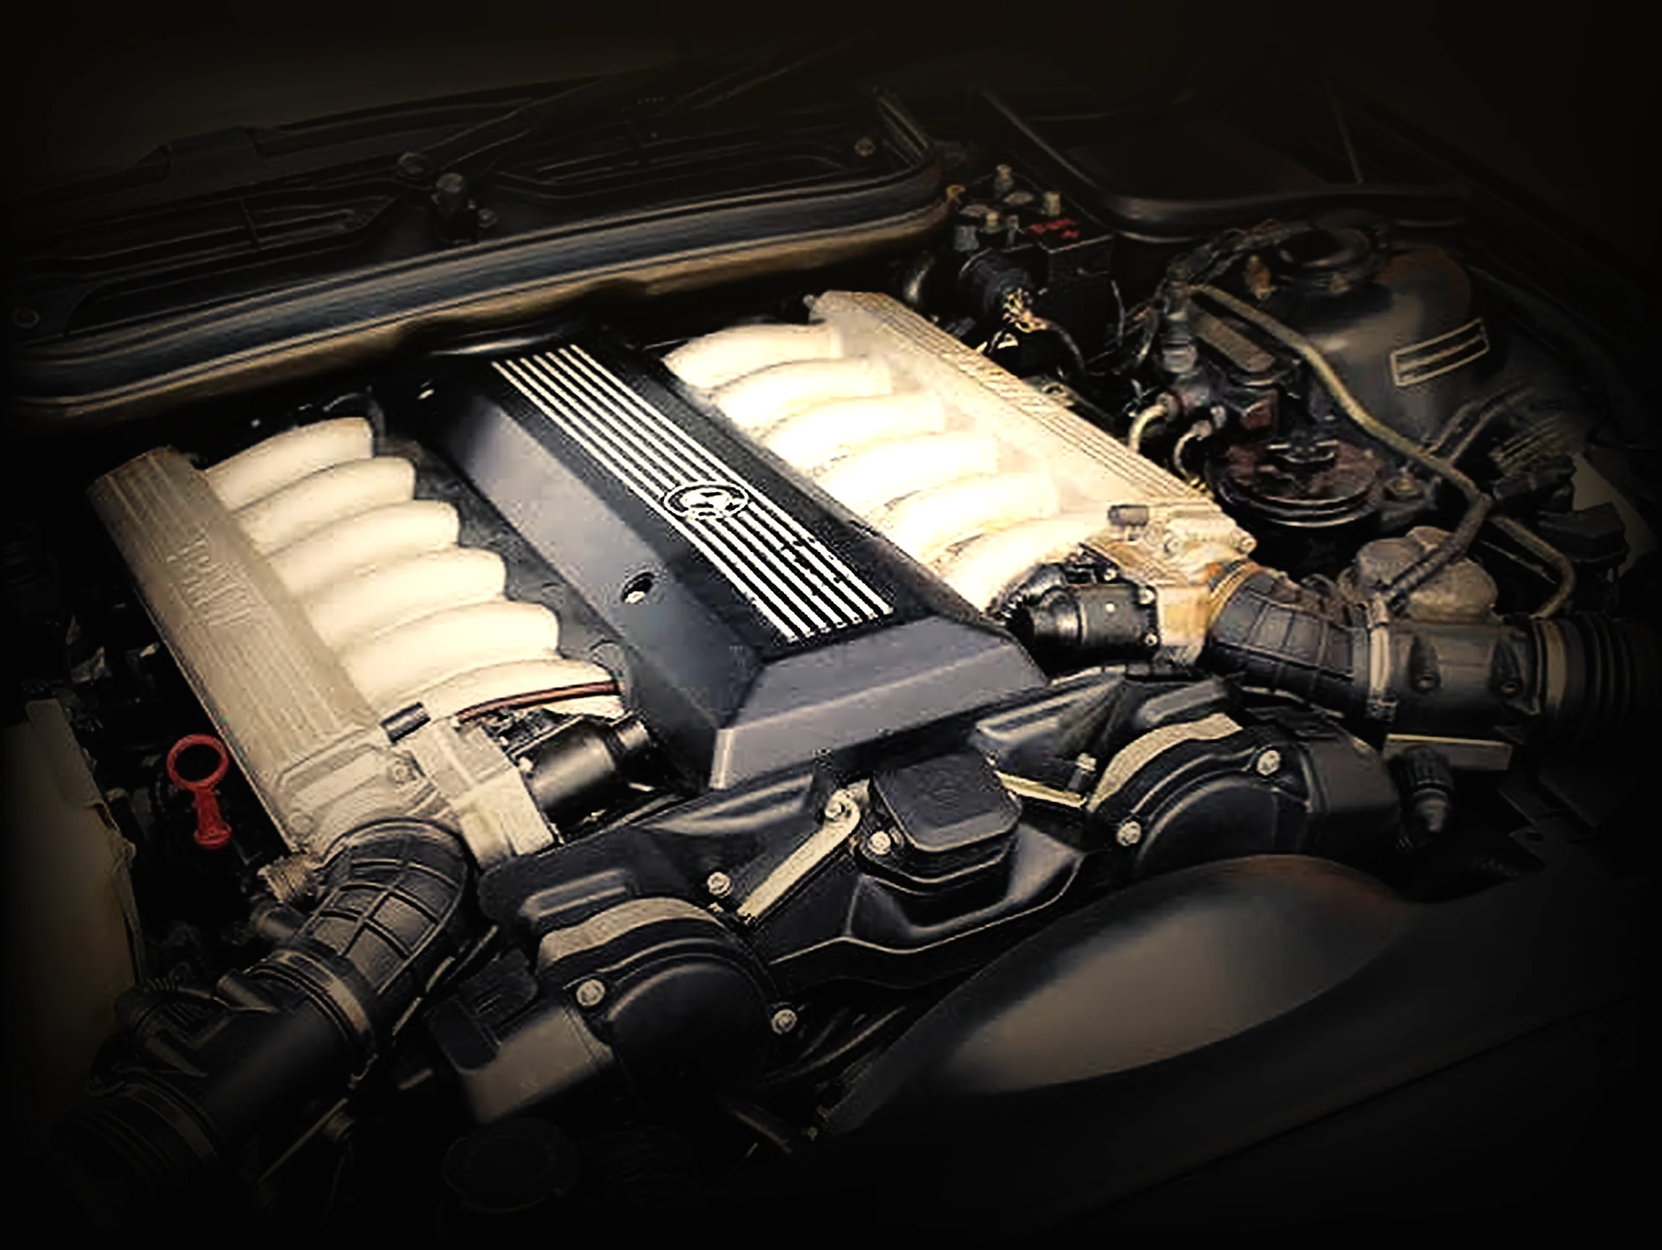
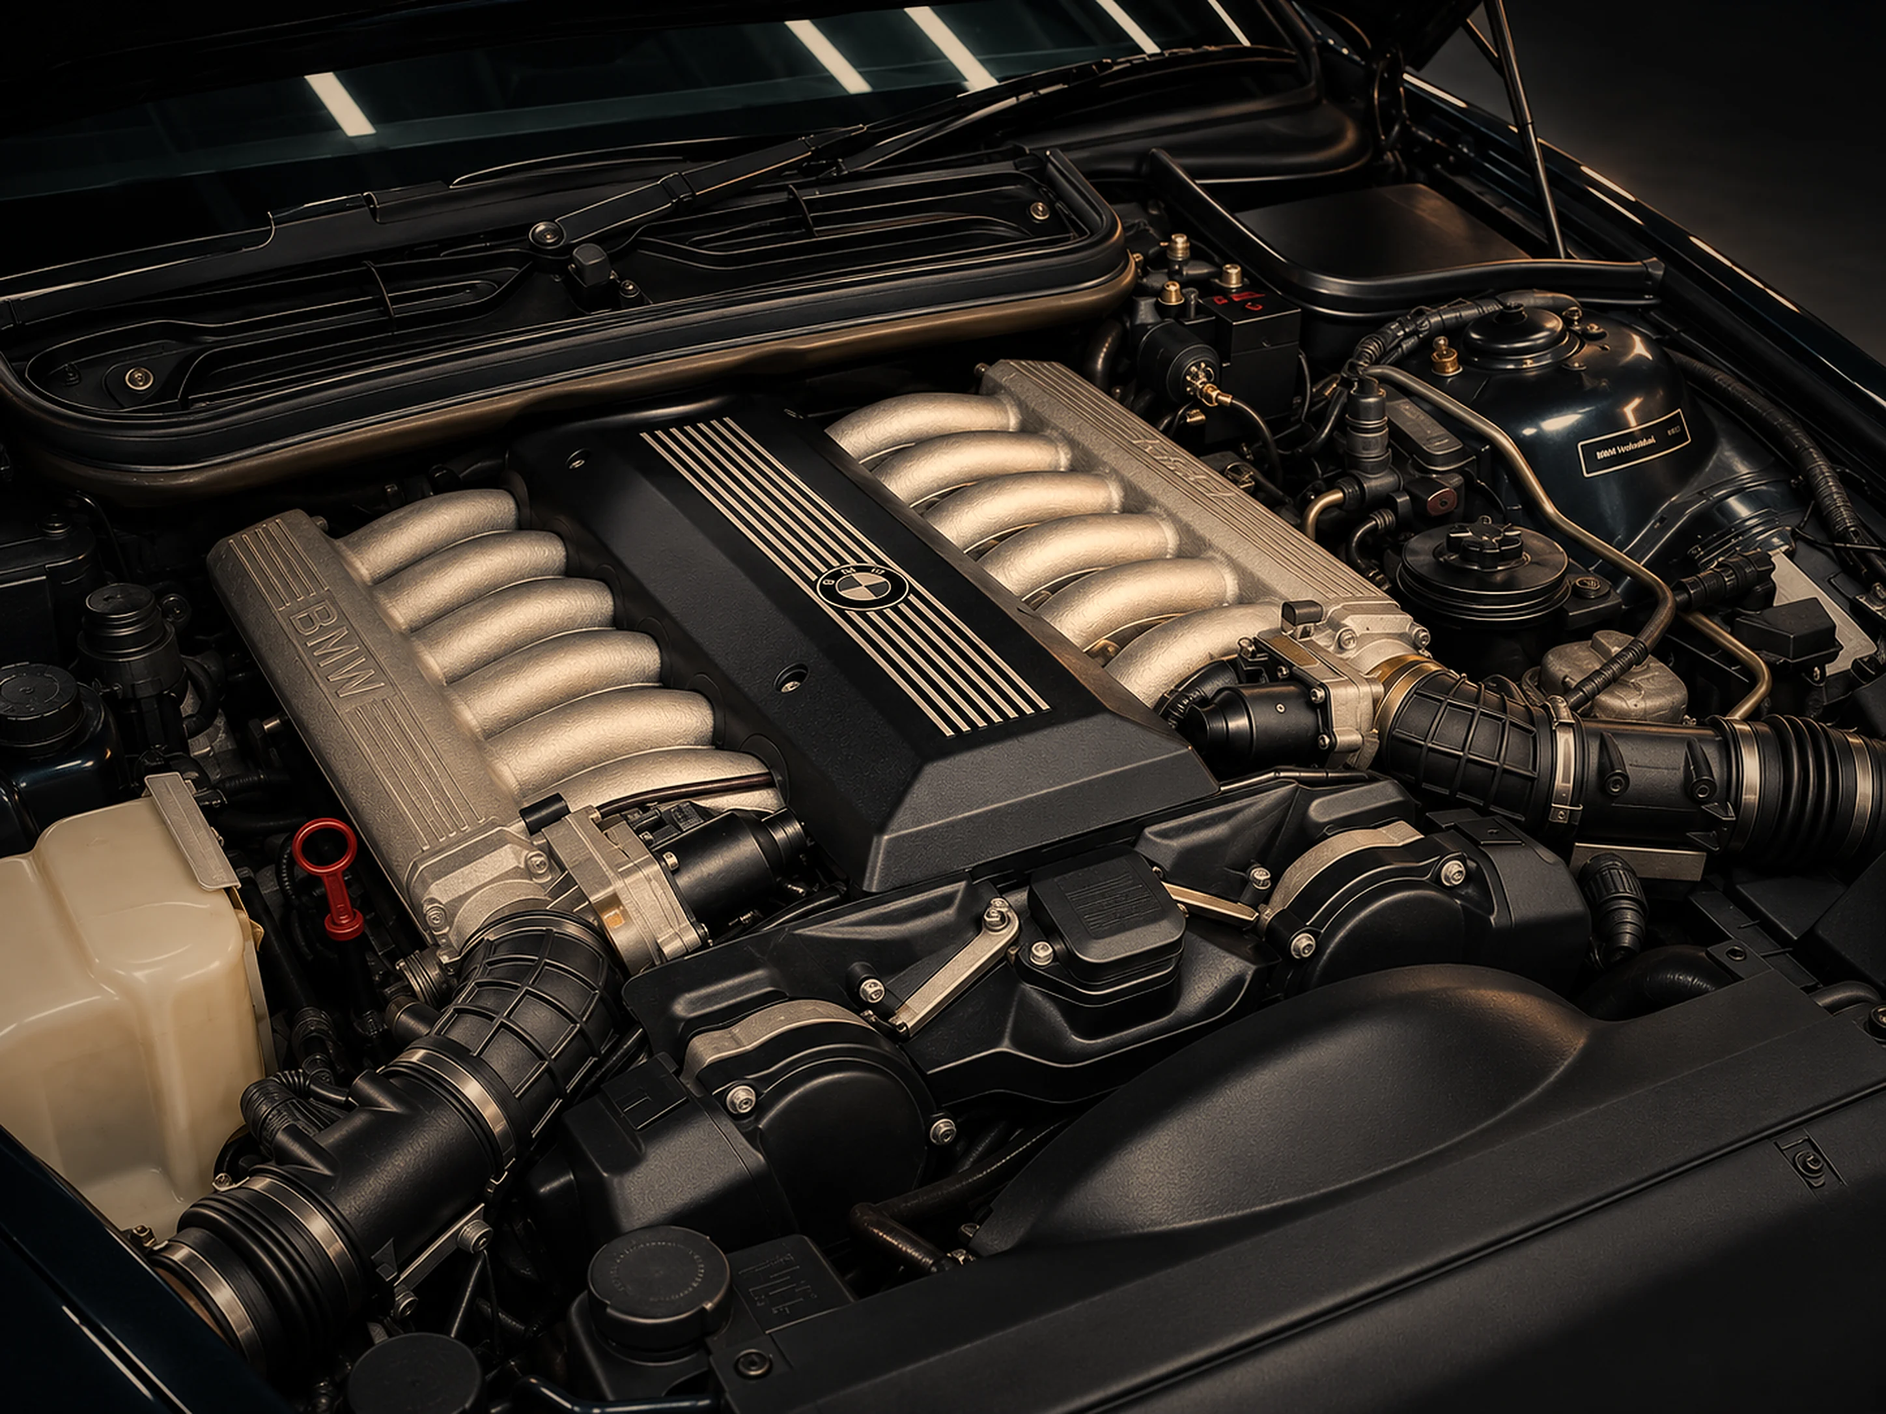
New engine still, slow hood opening, fitted plate and dash displays, smoother transitions
- Engine bay: the new studio engine photo, lightly warmed to the studio key light
- Hood opens over a much longer scroll, then the camera glides down into the bay
- Plate is mapped into the plate recess in perspective (four measured corners),
  redrawn as a black California plate with screw heads
- Odometer and radio displays are mapped onto their glass in perspective; the
  odometer sits behind the steering-wheel spoke
- Displays rest dim like real backlit glass and light up with a glow on hover
  (on touch screens they light when the camera reaches them)
- Transitions run longer, fades use a softer curve, and scrolling glides more

Claude-Session: https://claude.ai/code/session_01CZW1rVK2D3B6yrmhRnN8LJ

diff --git a/assets/js/site.js b/assets/js/site.js
@@ -21,7 +21,7 @@
   function ease(t) { return t < .5 ? 4 * t * t * t : 1 - Math.pow(-2 * t + 2, 3) / 2; }
   // Soft ease: half linear, half ease-in-out. Shots never fully stop at a seam, so the camera keeps flowing.
   function soft(t) { return .45 * t + .55 * ease(t); }
-  function sm(t) { t = clamp(t, 0, 1); return t * t * (3 - 2 * t); }
+  function sm(t) { t = clamp(t, 0, 1); return t * t * t * (t * (t * 6 - 15) + 10); }
   function esc(s) { return String(s == null ? '' : s).replace(/[&<>"']/g, function (c) { return { '&': '&amp;', '<': '&lt;', '>': '&gt;', '"': '&quot;', "'": '&#39;' }[c]; }); }
   function slug(s) { return String(s || '').toLowerCase().replace(/[^a-z0-9]+/g, '-').replace(/^-|-$/g, ''); }
   function fmt(n) { return Number(n).toLocaleString('en-US'); }
@@ -107,7 +107,7 @@
     backseat: { file: 'backseat', w: 1672, h: 941, focus: [836, 470] },
     bonnet: { file: 'bonnet', w: 1448, h: 1086, focus: [780, 470] },
     headon: { file: 'headon', w: 1448, h: 1086, focus: [724, 470] },
-    engine: { file: 'engine', w: 1276, h: 960, focus: [600, 430] },
+    engine: { file: 'engine', w: 1448, h: 1086, focus: [720, 560] },
     steer: { file: 'corner', w: 1448, h: 1086, focus: [930, 640] },
     passenger: { file: 'passenger', w: 1536, h: 1024, focus: [1010, 640] },
     glass: { file: 'rear', w: 1672, h: 941, focus: [560, 420] },
@@ -120,10 +120,14 @@
     headon: '<div class="hood" style="left:60px;top:240px;width:1330px;height:238px">' +
       '<div class="hood-bay"><img src="assets/photos/engine.webp" alt="" decoding="async"></div>' +
       '<div class="hood-flap"><i class="hood-top"></i><i class="hood-under"></i></div></div>',
-    rear: '<div class="ov ov-plate" data-detail="plate" style="left:1233px;top:410px;width:154px;height:66px"><span>31 CARTIO</span><i>E31 SPECIALIST</i></div>',
-    cluster: '<a class="ov ov-odo" data-bind="tel" href="tel:+18183955765" aria-label="Call us" style="left:982px;top:413px;width:66px;height:29px" id="odo-a"></a>' +
-      '<a class="ov ov-odo" data-bind="tel" href="tel:+18183955765" aria-label="Call us" style="left:1059px;top:414px;width:61px;height:29px" id="odo-b"></a>',
-    console: '<a class="ov ov-lcd" id="obc" href="https://www.instagram.com/31bycartio/" target="_blank" rel="noopener" aria-label="31 by Cartio on Instagram" style="left:189px;top:514px;width:442px;height:51px;transform:rotate(-1deg)"><span id="obc-text">31 BY CARTIO</span><i>ST</i></a>',
+    // data-quad = the four corners (top-left, top-right, bottom-right, bottom-left) measured on the photo;
+    // the element is drawn flat at its own size and mapped onto those corners in perspective.
+    rear: '<div class="ov ov-plate" data-quad="1233,412 1383,414 1395,475.5 1240.5,481" style="width:240px;height:120px"><b>California</b><span>31 CARTIO</span><i>E31 SPECIALIST</i>' +
+      '<u style="left:19%;top:8%"></u><u style="right:19%;top:8%"></u><u style="left:19%;bottom:8%"></u><u style="right:19%;bottom:8%"></u></div>',
+    cluster: '<a class="ov ov-odo-link" data-bind="tel" data-lit="odo" href="tel:+18183955765" aria-label="Call us" style="left:972px;top:402px;width:160px;height:52px">' +
+      '<span class="odo-w" style="left:8px;top:10px;width:70px;height:29px;-webkit-mask-image:url(assets/img/mask-odo.png);mask-image:url(assets/img/mask-odo.png)"><span class="ov-odo" id="odo-a" data-quad="3.1,3 67.4,4.7 66.9,25.6 3.6,23.7" style="width:128px;height:42px"></span></span>' +
+      '<span class="odo-w" style="left:87px;top:14px;width:62px;height:28px"><span class="ov-odo" id="odo-b" data-quad="2.7,2.6 59.6,5.4 59.3,26.1 2.1,22.6" style="width:114px;height:40px"></span></span></a>',
+    console: '<a class="ov ov-lcd" id="obc" data-lit="radio" data-quad="190,520 619,512 618,553.5 190,565" href="https://www.instagram.com/31bycartio/" target="_blank" rel="noopener" aria-label="31 by Cartio on Instagram" style="width:430px;height:48px"><span id="obc-text">31 BY CARTIO</span><i>ST</i></a>',
     backseat: '<div class="ov ov-mirror" style="left:726px;top:127px;width:226px;height:42px"><span>31 BY CARTIO</span></div>' +
       '<div class="ov ov-emboss" style="left:130px;top:752px;width:172px;height:74px"><i class="e-sh"></i><i class="e-hi"></i><i class="e-base"></i></div>'
   };
@@ -166,47 +170,47 @@
     hold('heroOff', CAM.hero, 55, { cap: 'hero', ch: 'hero' }),
     x({ s: 'heroOff', c0: CAM.hero, c1: CAM.hero, o: [.62, .8] }, { s: 'heroOn', c0: CAM.hero, c1: CAM.hero, o: [.32, .58] }, 45, { flash: .4 }),
     move('heroOn', CAM.hero, CAM.podNear, 40),
-    xin('heroOn', CAM.podNear, CAM.podP, 'lamp', REST, 55),
+    xin('heroOn', CAM.podNear, CAM.podP, 'lamp', REST, 80),
     move('lamp', REST, DRIFT, 45, { cap: 'lamp', lin: 1 }),
-    track('lamp', 'corner', 60),
+    track('lamp', 'corner', 90),
     move('corner', REST, DRIFT, 45, { cap: 'corner', lin: 1 }),
-    track('corner', 'rearwheel', 60),
-    xout('rearwheel', REST, 'rear', CAM.rwP, REST, 65),
+    track('corner', 'rearwheel', 90),
+    xout('rearwheel', REST, 'rear', CAM.rwP, REST, 90),
     move('rear', REST, R({ k: .95 }), 55, { cap: 'step', ch: 'inside', detail: 'plate', lin: 1 }),
-    xin('rear', R({ k: .95 }), CAM.winP, 'cabin', REST, 65),
+    xin('rear', R({ k: .95 }), CAM.winP, 'cabin', REST, 90),
     move('cabin', REST, R({ k: .95 }), 40, { cap: 'look', lin: 1 }),
-    xin('cabin', R({ k: .95 }), CAM.clP, 'cluster', REST, 55),
+    xin('cabin', R({ k: .95 }), CAM.clP, 'cluster', REST, 80),
     move('cluster', REST, CAM.odo, 35, { cap: 'odo' }),
     hold('cluster', CAM.odo, 55, { cap: 'odo', ch: 'gauges', detail: 'odo' }),
-    xout('cluster', CAM.odo, 'driver', CAM.odoP, REST, 65),
+    xout('cluster', CAM.odo, 'driver', CAM.odoP, REST, 90),
     move('driver', REST, CAM.drvConsole, 35),
-    xin('driver', CAM.drvConsole, CAM.radioP, 'console', CAM.radio, 55, { cap: 'radio' }),
+    xin('driver', CAM.drvConsole, CAM.radioP, 'console', CAM.radio, 80, { cap: 'radio' }),
     hold('console', CAM.radio, 60, { cap: 'radio', ch: 'radio', detail: 'radio' }),
-    xout('console', CAM.radio, 'backseat', CAM.bsRadioP, REST, 65),
+    xout('console', CAM.radio, 'backseat', CAM.bsRadioP, REST, 90),
     move('backseat', REST, CAM.mirror, 35, { cap: 'mirror' }),
     hold('backseat', CAM.mirror, 40, { cap: 'mirror', detail: 'mirror' }),
     move('backseat', CAM.mirror, CAM.leather, 40, { cap: 'leather' }),
     hold('backseat', CAM.leather, 50, { cap: 'leather', ch: 'leather', detail: 'leather' }),
-    x({ s: 'backseat', c0: CAM.leather, c1: CAM.leatherIn, o: [.3, .8], blur: 1 }, { s: 'bonnet', c0: R({ k: .9, dx: -.05 }), c1: CAM.kb0, box: 'full', box1: 'split', o: [.06, .52], blur: 1 }, 60),
+    x({ s: 'backseat', c0: CAM.leather, c1: CAM.leatherIn, o: [.3, .8], blur: 1 }, { s: 'bonnet', c0: R({ k: .9, dx: -.05 }), c1: CAM.kb0, box: 'full', box1: 'split', o: [.06, .52], blur: 1 }, 85),
     move('bonnet', CAM.kb0, CAM.kb1, 85, { box: 'split', cap: 'paint', ch: 'paint' }),
-    wipe('bonnet', 'headon', 45),
+    wipe('bonnet', 'headon', 70),
     move('headon', CAM.kb0, CAM.kb1, 45, { box: 'split', cap: 'engines', ch: 'engines' }),
-    move('headon', CAM.kb1, K(724, 500, 1000), 50, { box: 'split', cap: 'engines', hood: 1 }),
-    x({ s: 'headon', c0: K(724, 500, 1000), c1: K(724, 370, 430), box: 'split', o: [.55, .92], blur: 1 }, { s: 'engine', c0: R({ k: 1 }), c1: R({ k: .95 }), box: 'split', o: [.42, .86], blur: 1 }, 55, { cap: 'engines' }),
-    move('engine', R({ k: .95 }), CAM.kb1, 55, { box: 'split', cap: 'engines' }),
-    wipe('engine', 'steer', 45),
+    move('headon', CAM.kb1, K(724, 500, 1000), 130, { box: 'split', cap: 'engines', hood: 1 }),
+    x({ s: 'headon', c0: K(724, 500, 1000), c1: K(724, 380, 470), box: 'split', o: [.5, .95], blur: 1 }, { s: 'engine', c0: R({ k: 1 }), c1: R({ k: .94 }), box: 'split', o: [.36, .88], blur: 1 }, 90, { cap: 'engines' }),
+    move('engine', R({ k: .94 }), CAM.kb1, 60, { box: 'split', cap: 'engines' }),
+    wipe('engine', 'steer', 70),
     move('steer', CAM.kb0, CAM.kb1, 85, { box: 'split', cap: 'steering', ch: 'steering' }),
-    wipe('steer', 'passenger', 45),
+    wipe('steer', 'passenger', 70),
     move('passenger', CAM.kb0, CAM.kb1, 85, { box: 'split', cap: 'interior', ch: 'interior' }),
-    wipe('passenger', 'glass', 45),
+    wipe('passenger', 'glass', 70),
     move('glass', CAM.kb0, CAM.kb1, 85, { box: 'split', cap: 'sunroof', ch: 'sunroof' }),
-    wipe('glass', 'dash', 45),
+    wipe('glass', 'dash', 70),
     move('dash', CAM.kb0, CAM.kb1, 85, { box: 'split', cap: 'wiring', ch: 'wiring' }),
-    x({ s: 'dash', c0: CAM.kb1, c1: CAM.kb1, box: 'split', box1: 'full', o: [.55, .95] }, { s: 'stock', c0: R({ k: 1.12 }), c1: CAM.stock, o: [.45, .9] }, 60),
+    x({ s: 'dash', c0: CAM.kb1, c1: CAM.kb1, box: 'split', box1: 'full', o: [.55, .95] }, { s: 'stock', c0: R({ k: 1.12 }), c1: CAM.stock, o: [.4, .92], blur: 1 }, 85),
     hold('stock', CAM.stock, 150, { cap: 'stock', ch: 'stock', lineup: true, dim: .6 }),
-    x({ s: 'stock', c0: CAM.stock, c1: R({ k: .9 }), o: [.25, .8], blur: 1 }, { s: 'story', c0: R({ k: .9, dx: .05 }), c1: CAM.kb0, box: 'full', box1: 'story', o: [.05, .5], blur: 1 }, 60),
+    x({ s: 'stock', c0: CAM.stock, c1: R({ k: .9 }), o: [.25, .8], blur: 1 }, { s: 'story', c0: R({ k: .9, dx: .05 }), c1: CAM.kb0, box: 'full', box1: 'story', o: [.05, .5], blur: 1 }, 85),
     move('story', CAM.kb0, CAM.kb1, 75, { box: 'story', cap: 'story', ch: 'story' }),
-    x({ s: 'story', c0: CAM.kb1, c1: CAM.final0, box: 'story', box1: 'full', o: [.6, .9] }, { s: 'finale', c0: CAM.final0, c1: CAM.final0, o: [.5, .8] }, 60, { flash: .55 }),
+    x({ s: 'story', c0: CAM.kb1, c1: CAM.final0, box: 'story', box1: 'full', o: [.6, .9] }, { s: 'finale', c0: CAM.final0, c1: CAM.final0, o: [.45, .85], blur: 1 }, 85, { flash: .55 }),
     move('finale', CAM.final0, CAM.final1, 80, { cap: 'contact', ch: 'contact', end: true, dim: .45 })
   ];
   var CHAPTERS = [
@@ -252,6 +256,29 @@
   function drain() { var it = loadQueue.shift(); if (!it) return; it[0].onload = it[0].onerror = function () { setTimeout(drain, 0); }; it[0].src = it[1]; }
   window.addEventListener('load', function () { drain(); drain(); drain(); });
   setTimeout(function () { drain(); drain(); }, 2500);
+
+  // Projective transform that maps a w x h box onto four measured corners (CSS matrix3d).
+  function homography(w, h, q) {
+    var src = [[0, 0], [w, 0], [w, h], [0, h]], A = [], i, j, k;
+    for (i = 0; i < 4; i++) {
+      var x0 = src[i][0], y0 = src[i][1], X = q[i][0], Y = q[i][1];
+      A.push([x0, y0, 1, 0, 0, 0, -x0 * X, -y0 * X, X]);
+      A.push([0, 0, 0, x0, y0, 1, -x0 * Y, -y0 * Y, Y]);
+    }
+    for (i = 0; i < 8; i++) {
+      var p = i; for (j = i + 1; j < 8; j++) if (Math.abs(A[j][i]) > Math.abs(A[p][i])) p = j;
+      var tmp = A[i]; A[i] = A[p]; A[p] = tmp;
+      for (j = i + 1; j < 8; j++) { var f = A[j][i] / A[i][i]; for (k = i; k < 9; k++) A[j][k] -= f * A[i][k]; }
+    }
+    var hh = new Array(8);
+    for (i = 7; i >= 0; i--) { var sum = A[i][8]; for (j = i + 1; j < 8; j++) sum -= A[i][j] * hh[j]; hh[i] = sum / A[i][i]; }
+    return [hh[0], hh[3], 0, hh[6], hh[1], hh[4], 0, hh[7], 0, 0, 1, 0, hh[2], hh[5], 0, 1];
+  }
+  $$('[data-quad]').forEach(function (el) {
+    var q = el.getAttribute('data-quad').split(' ').map(function (p) { return p.split(',').map(Number); });
+    el.style.left = '0px'; el.style.top = '0px'; el.style.transformOrigin = '0 0';
+    el.style.transform = 'matrix3d(' + homography(parseFloat(el.style.width), parseFloat(el.style.height), q).map(function (v) { return +v.toFixed(8); }).join(',') + ')';
+  });
 
   var embossSrc = (window.__ASSET__ && window.__ASSET__.badge) || 'assets/img/logo-badge-400.png';
   $$('.ov-emboss i').forEach(function (i) { i.style.webkitMaskImage = i.style.maskImage = 'url("' + embossSrc + '")'; });
@@ -441,7 +468,11 @@
   var foundSet = {};
   try { foundSet = JSON.parse(localStorage.getItem('31-found') || '{}') || {}; } catch (e) { foundSet = {}; }
   var found = $('#found'), armTimer = null, armed = '';
-  function arm(k) { if (k === armed) return; armed = k; clearTimeout(armTimer); if (k) armTimer = setTimeout(function () { markFound(k); }, 900); }
+  var NOHOVER = window.matchMedia && matchMedia('(hover: none)').matches;
+  function arm(k) {
+    if (k === armed) return;
+    if (NOHOVER) $$('[data-lit]').forEach(function (el) { el.classList.toggle('lit', el.getAttribute('data-lit') === k); });
+    armed = k; clearTimeout(armTimer); if (k) armTimer = setTimeout(function () { markFound(k); }, 900); }
   function markFound(k) {
     if (!DETAILS[k] || foundSet[k]) return;
     foundSet[k] = 1;
@@ -484,8 +515,8 @@
   }
   function loop() {
     if (!running) return;
-    cur += (target - cur) * (REDUCE ? 1 : .085);
-    if (Math.abs(target - cur) < .002) cur = target;
+    cur += (target - cur) * (REDUCE ? 1 : .072);
+    if (Math.abs(target - cur) < .001) cur = target;
     render(cur);
     if (cur === target) { running = false; return; }
     requestAnimationFrame(loop);
@@ -512,7 +543,7 @@
     var o = e.target.closest('[data-open]');
     if (o) { e.preventDefault(); openPanel(o.dataset.open, o.dataset.need); return; }
     // The odometer and radio are real links; tapping them also counts as finding them.
-    if (e.target.closest('.ov-odo')) markFound('odo');
+    if (e.target.closest('.ov-odo-link')) markFound('odo');
     if (e.target.closest('.ov-lcd')) markFound('radio');
     var c = e.target.closest('[data-car]');
     if (c) { e.preventDefault(); openPanel('car', c.dataset.car); }

diff --git a/assets/css/site.css b/assets/css/site.css
@@ -422,7 +422,7 @@ a.ov { text-decoration: none; cursor: pointer; }
 .hood.on { visibility: visible; }
 .hood-bay, .hood-top { position: absolute; inset: 0; clip-path: polygon(14.9% 0, 88.2% 0, 99.6% 100%, .4% 100%); -webkit-clip-path: polygon(14.9% 0, 88.2% 0, 99.6% 100%, .4% 100%); }
 .hood-bay { background: #050505; overflow: hidden; }
-.hood-bay img { width: 100%; height: 100%; object-fit: cover; object-position: 50% 46%; opacity: calc(.35 + var(--h, 0) * .65); filter: brightness(calc(.45 + var(--h, 0) * .55)); }
+.hood-bay img { width: 100%; height: 100%; object-fit: cover; object-position: 50% 50%; opacity: calc(.35 + var(--h, 0) * .65); filter: brightness(calc(.45 + var(--h, 0) * .55)); }
 .hood-bay::after { content: ""; position: absolute; inset: 0; background: linear-gradient(rgba(0,0,0,.95), rgba(0,0,0,.4) 34%, rgba(0,0,0,.08) 70%, rgba(0,0,0,.45)), radial-gradient(70% 120% at 50% 70%, transparent 40%, rgba(0,0,0,.75)); opacity: calc(1 - var(--h, 0) * .4); }
 .hood-flap { position: absolute; inset: 0; }
 .hood-top { background: url("../photos/headon.webp") -60px -240px / 1448px 1086px no-repeat; transform-origin: 50% 0; filter: brightness(calc(1 - var(--h, 0) * 1.2)); }
@@ -460,3 +460,36 @@ a.ov { text-decoration: none; cursor: pointer; }
   .tl li { grid-template-columns: 1fr; gap: 8px; padding: 18px 0; }
   .tl-when { padding-top: 0; }
 }
+
+/* ---------- displays and plate fitted into the photos ---------- */
+.ov[data-quad], .ov-odo { transform-origin: 0 0; }
+.ov-odo-link { display: block; }
+.odo-w { position: absolute; display: block; -webkit-mask-size: 100% 100%; mask-size: 100% 100%; }
+.ov-odo { position: absolute; left: 0; top: 0; display: block; padding: 5px 7px 4px 5px; border-radius: 2px;
+  background: radial-gradient(130% 160% at 45% 40%, #4a1606, #2b0c03 70%); box-shadow: inset 0 3px 4px rgba(0,0,0,.75), inset 0 -1px 2px rgba(0,0,0,.6);
+  transition: background .45s, box-shadow .45s, filter .45s; filter: brightness(.74) saturate(.92); }
+.ov-odo .seg7 .on { fill: #ff7a2e; filter: drop-shadow(0 0 1px rgba(255,90,20,.9)) drop-shadow(0 0 3px rgba(255,90,20,.45)); transition: fill .45s, filter .45s; }
+.ov-odo .seg7 .off { fill: rgba(255,110,40,.06); }
+.ov-odo-link::after { content: ""; position: absolute; inset: -30% -12%; border-radius: 50%; pointer-events: none; opacity: 0; transition: opacity .5s;
+  background: radial-gradient(closest-side, rgba(255,110,40,.4), rgba(255,90,20,.12) 55%, transparent); mix-blend-mode: screen; }
+.ov-odo-link:hover .ov-odo, .ov-odo-link:focus-visible .ov-odo, .ov-odo-link.lit .ov-odo { filter: brightness(1.18) saturate(1.1); background: radial-gradient(130% 160% at 45% 40%, #6a2209, #3a1004 70%); }
+.ov-odo-link:hover .seg7 .on, .ov-odo-link:focus-visible .seg7 .on, .ov-odo-link.lit .seg7 .on { fill: #ffb27a; filter: drop-shadow(0 0 1px #fff0e0) drop-shadow(0 0 3px rgba(255,120,40,1)) drop-shadow(0 0 8px rgba(255,90,20,.75)); }
+.ov-odo-link:hover::after, .ov-odo-link:focus-visible::after, .ov-odo-link.lit::after { opacity: 1; }
+.ov-odo-link:focus-visible { outline: none; }
+
+.ov-lcd { transform: none; padding: 0 16px 0 18px; filter: brightness(.8); transition: filter .45s, box-shadow .45s; box-shadow: inset 0 0 8px #000, 0 0 0 rgba(255,50,20,0); }
+.ov-lcd span { color: #ff4a2c; text-shadow: 0 0 1.5px #ff2200, 0 0 5px rgba(255,50,20,.45); transition: color .45s, text-shadow .45s, opacity .16s; }
+.ov-lcd:hover, .ov-lcd:focus-visible, .ov-lcd.lit { filter: brightness(1.2); box-shadow: inset 0 0 8px #000, 0 0 26px rgba(255,60,20,.35), 0 0 60px rgba(255,60,20,.18); }
+.ov-lcd:hover span, .ov-lcd:focus-visible span, .ov-lcd.lit span { color: #ff8a6a; text-shadow: 0 0 1px #fff2ea, 0 0 3px #ff3a10, 0 0 10px rgba(255,60,20,.9), 0 0 22px rgba(255,50,20,.5); }
+.ov-lcd:focus-visible { outline: none; }
+
+/* California legacy-style black plate, mapped into the plate recess */
+.ov-plate { border-radius: 7px; overflow: hidden; display: grid; align-content: center; justify-items: center;
+  background: linear-gradient(170deg, #1d1d1c, #0c0c0c 55%, #141413);
+  box-shadow: inset 0 0 0 3px #232321, inset 0 0 0 5px #0b0b0b, inset 0 0 0 6px rgba(255,255,255,.05), 0 1px 2px rgba(0,0,0,.9); }
+.ov-plate::after { content: ""; position: absolute; inset: 0; background: linear-gradient(100deg, rgba(255,240,220,.1), transparent 38%, transparent 70%, rgba(255,220,180,.05)); pointer-events: none; }
+.ov-plate b { position: absolute; top: 11px; left: 0; right: 0; text-align: center; font: italic 400 15px/1 var(--serif); color: rgba(226,200,150,.7); letter-spacing: .04em; }
+.ov-plate span { margin-top: 8px; font: 700 50px/1 var(--cond); letter-spacing: .05em; color: #dcc595; text-shadow: 0 -1.5px 0 rgba(0,0,0,.95), 0 1.5px 0 rgba(255,240,210,.22); }
+.ov-plate i { position: absolute; bottom: 12px; left: 0; right: 0; margin: 0; text-align: center; font: 700 10px/1 var(--cond); font-style: normal; letter-spacing: .32em; color: rgba(211,180,138,.75); }
+.ov-plate u { position: absolute; width: 10px; height: 10px; border-radius: 50%; background: radial-gradient(circle at 35% 30%, #e6e0d6, #8c867d 45%, #2c2a27 75%); box-shadow: 0 1px 1px rgba(0,0,0,.8); }
+.ov-plate u::after { content: ""; position: absolute; left: 2px; right: 2px; top: 4.5px; height: 1px; background: rgba(0,0,0,.55); transform: rotate(-25deg); }
